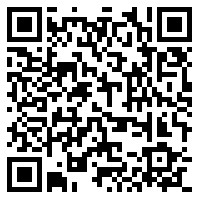
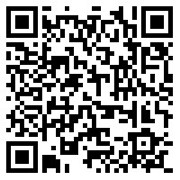
update QR code size

diff --git a/index.html b/index.html
@@ -256,7 +256,7 @@
               <img src="./bootstrap/img/mst-logo.png">
             </span>
             <div>
-              <h3><a href="http://emclab.mst.edu/" target="_blank">EMC Lab, Missouri S&T</a></h3>
+              <h3><a href="https://emclab.mst.edu/" target="_blank">EMC Lab, Missouri S&T</a></h3>
               <ul>
 		<li>Best Student EMC Hardware Design Award</I>, 2015<br>
 		First Author, granted by IEEE Electromagnetic Compatibility Society</li>

diff --git a/bootstrap/css/style.css b/bootstrap/css/style.css
@@ -331,6 +331,9 @@ body {
 #qr-code {
     float:right;
 }
+#qr-code img {
+    width:180px;
+}
 #about-me-photo {
     width:300px;
     height:300px;
